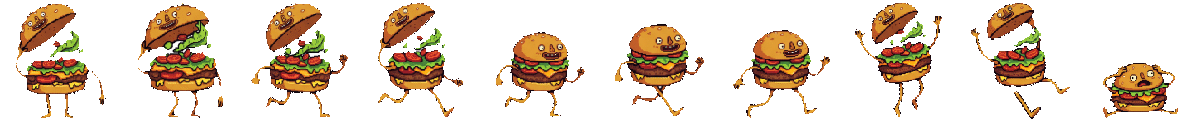
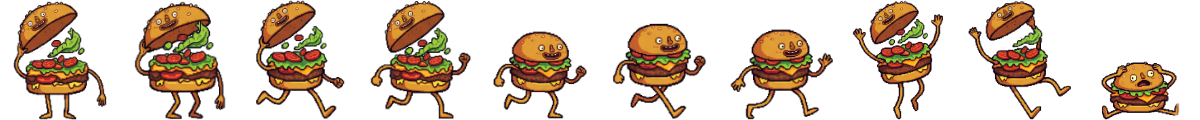
Update player animations and enhance developer tools

diff --git a/game.js b/game.js
@@ -1,6 +1,8 @@
 const SETTINGS = {
     floatingJoystick: true,
-    devMode: false
+    devMode: true, // Wymusza działanie narzędzi Dev Menu
+    showHitboxes: false,
+    showStats: false
 };
 
 // 1. SCENA MENU GŁÓWNEGO
@@ -77,16 +79,25 @@ class Story extends Phaser.Scene {
                 plat.body.checkCollision.right = false;
             }
         }
-
+        
         setupPlayerAndPhysics(this);
         this.scoreText = this.add.text(20, 20, 'Piętro: 0 / ' + this.targetFloor, { fontSize: '20px', fill: '#ffffff' }).setScrollFactor(0);
+        
+        // Włączenie rysowania hitboxów na żądanie (Tryb Dev)
+        if (SETTINGS.showHitboxes) {
+            this.physics.world.createDebugGraphic();
+        }
+
+        setupComboSystem(this);
+ 
     }
 
-    update() {
-        if (this.gameWon) return;
+    update(time, delta) {
+        if (this.gameWon || this.isDead) return;
         handlePlayerMovement(this);
         updateCameraAndScores(this, false); 
-        updateParallax(this);
+        handleCombo(this, delta); // NOWOŚĆ
+        if (typeof updateTelemetry === 'function') updateTelemetry(this);
     }
 }
 
@@ -117,17 +128,26 @@ class Endless extends Phaser.Scene {
 
         setupPlayerAndPhysics(this);
         this.scoreText = this.add.text(20, 20, 'Piętro: 0', { fontSize: '24px', fill: '#ffffff' }).setScrollFactor(0);
+
+        // Włączenie rysowania hitboxów na żądanie (Tryb Dev)
+        if (SETTINGS.showHitboxes) {
+            this.physics.world.createDebugGraphic();
+        }
+
+        setupComboSystem(this);
     }
 
-    update() {
+    update(time, delta) {
+        if (this.isDead) return;
         handlePlayerMovement(this);
         updateCameraAndScores(this, true); 
-
+        
         while (this.cameras.main.scrollY < this.nextPlatformY + 640) {
             this.generatePlatform();
         }
-
-        updateParallax(this);
+        
+        handleCombo(this, delta); // NOWOŚĆ
+        if (typeof updateTelemetry === 'function') updateTelemetry(this);
     }
 
     generatePlatform() {
@@ -183,11 +203,12 @@ function setupPlayerAndPhysics(scene) {
     if (scene.textures.exists('player')) {
         scene.player = scene.physics.add.sprite(180, 500, 'player');
         
-        // POWIĘKSZENIE POSTACI:
+        // Dopasowanie wizualne i naprawa hitboxa
         scene.player.setDisplaySize(80, 80); 
-        scene.player.setSize(120, 120); // Dopasowanie hitboxa do kwadratów ze sprite sheetu
+        scene.player.body.setSize(50, 70); 
+        scene.player.body.setOffset(35, 50);
         
-        // --- TWORZENIE ANIMACJI ---
+        // --- PEŁNA INICJALIZACJA ANIMACJI ---
         if (!scene.anims.exists('idle')) {
             scene.anims.create({
                 key: 'idle',
@@ -246,18 +267,66 @@ function setupPlayerAndPhysics(scene) {
     scene.mobileKeys = { joyX: 0, up: false };
     createMobileControls(scene);
 
+    // --- ROZWIJANE MENU DEWELOPERSKIE ---
     if (SETTINGS.devMode) {
-        let btnDevUp = scene.add.text(350, 10, '🚀 +10 PIĘTER', { 
-            fontSize: '16px', fill: '#ffffff', backgroundColor: '#c0392b', padding: 8, fontStyle: 'bold' 
-        }).setOrigin(1, 0).setScrollFactor(0).setInteractive();
+        // Kontener menu
+        let devContainer = scene.add.container(config.width - 150, 40).setScrollFactor(0).setDepth(100);
+        let menuBg = scene.add.rectangle(0, 0, 140, 110, 0x000000, 0.8).setOrigin(0, 0);
+        devContainer.add(menuBg);
         
+        let title = scene.add.text(5, 5, '🛠 DEV MENU', { fontSize: '14px', fill: '#f1c40f', fontStyle: 'bold' });
+        devContainer.add(title);
+
+        // Przycisk koła zębatego
+        let btnToggle = scene.add.text(config.width - 35, 10, '⚙', { fontSize: '24px' }).setScrollFactor(0).setInteractive().setDepth(101);
+        devContainer.setVisible(false);
+        
+        btnToggle.on('pointerdown', () => {
+            devContainer.setVisible(!devContainer.visible);
+        });
+
+        const getHitboxText = () => SETTINGS.showHitboxes ? '[X] Hitboxy' : '[ ] Hitboxy';
+        let btnHitboxes = scene.add.text(5, 30, getHitboxText(), { fontSize: '12px', fill: '#fff' }).setInteractive();
+        btnHitboxes.on('pointerdown', () => {
+            SETTINGS.showHitboxes = !SETTINGS.showHitboxes;
+            btnHitboxes.setText(getHitboxText());
+            
+            if (SETTINGS.showHitboxes) {
+                if (!scene.physics.world.debugGraphic) scene.physics.world.createDebugGraphic();
+                scene.physics.world.drawDebug = true;
+            } else {
+                scene.physics.world.drawDebug = false;
+                if (scene.physics.world.debugGraphic) scene.physics.world.debugGraphic.clear();
+            }
+        });
+        devContainer.add(btnHitboxes);
+
+        const getStatsText = () => SETTINGS.showStats ? '[X] Telemetria' : '[ ] Telemetria';
+        let btnStats = scene.add.text(5, 55, getStatsText(), { fontSize: '12px', fill: '#fff' }).setInteractive();
+        btnStats.on('pointerdown', () => {
+            SETTINGS.showStats = !SETTINGS.showStats;
+            btnStats.setText(getStatsText());
+        });
+        devContainer.add(btnStats);
+
+        let btnDevUp = scene.add.text(5, 80, '🚀 +10 PIĘTER', { fontSize: '12px', fill: '#fff', backgroundColor: '#c0392b', padding: 4 }).setInteractive();
         btnDevUp.on('pointerdown', () => {
             scene.player.y -= 1200; 
             scene.player.body.setVelocityY(-400); 
             scene.cameras.main.scrollY = scene.player.y - config.height / 2; 
         });
+        devContainer.add(btnDevUp);
+
+        scene.devStatsText = scene.add.text(10, 50, '', { fontSize: '12px', fill: '#00ff00', backgroundColor: '#000000aa', padding: 5 }).setScrollFactor(0).setDepth(99);
+        scene.devStatsText.setVisible(SETTINGS.showStats);
+        
+        if (SETTINGS.showHitboxes) {
+            scene.physics.world.createDebugGraphic();
+            scene.physics.world.drawDebug = true;
+        }
     }
 }
+
 
 function createMobileControls(scene) {
     scene.input.addPointer(2);
@@ -311,11 +380,12 @@ function createMobileControls(scene) {
 }
 
 function handlePlayerMovement(scene) {
-    // Jeśli gracz jest martwy i swobodnie spada (po przegranej), blokujemy sterowanie i zmianę animacji
     if (scene.isDead) return; 
 
     let moving = false;
+    let isJumpPressed = scene.cursors.up.isDown || scene.mobileKeys.up;
 
+    // 1. Ruch na boki
     if (scene.cursors.left.isDown || scene.mobileKeys.joyX < -0.2) {
         scene.player.body.setAccelerationX(-1500);
         if (scene.player.setFlipX) scene.player.setFlipX(true);
@@ -328,36 +398,48 @@ function handlePlayerMovement(scene) {
         scene.player.body.setAccelerationX(0);
     }
 
-    if ((scene.cursors.up.isDown || scene.mobileKeys.up) && scene.player.body.touching.down) {
-        scene.player.body.setVelocityY(-900);
+    // 2. INICJACJA SKOKU (zależna od pędu)
+    if (isJumpPressed && scene.player.body.touching.down) {
+        // Pobieramy absolutną prędkość poziomą (od 0 do max 600)
+        let speedX = Math.abs(scene.player.body.velocity.x);
+        
+        // Baza to -750 (zwykły skok z miejsca na 1-2 piętra). 
+        // Dodajemy bonus za rozpęd (np. przy max prędkości 600 * 0.6 = +360 siły).
+        // Max siła skoku wyniesie wtedy ok. -1110.
+        let jumpPower = -750 - (speedX * 0.6); 
+        
+        scene.player.body.setVelocityY(jumpPower);
     }
 
-    // --- ZAKTUALIZOWANA LOGIKA ANIMACJI ---
+    // 3. KONTROLA WYSOKOŚCI SKOKU (Variable Jump)
+    // Jeśli gracz leci w górę (Y < 0), ale puścił już przycisk/ekran, płynnie ucinamy pęd
+    if (!isJumpPressed && scene.player.body.velocity.y < 0) {
+        scene.player.body.setVelocityY(scene.player.body.velocity.y * 0.9); 
+    }
+
+    // --- LOGIKA ANIMACJI ---
     if (scene.textures.exists('player')) {
         let currentAnim = scene.player.anims.currentAnim?.key;
 
         if (!scene.player.body.touching.down) {
-            // W powietrzu
             if (currentAnim !== 'jump') scene.player.play('jump');
         } 
         else if (moving) {
-            // Ruch na ziemi
             if (currentAnim === 'idle') {
                 scene.player.play('prepare');
             } else if (currentAnim === 'prepare' && scene.player.anims.getProgress() === 1) {
                 scene.player.play('run');
             } else if (currentAnim !== 'prepare' && currentAnim !== 'run') {
-                scene.player.play('run'); // Gdy np. biegnie tuż po wylądowaniu ze skoku
+                scene.player.play('run'); 
             }
         } 
         else {
-            // Spoczynek na ziemi
-            // Zmiana: gdy wyląduje z 'jump' i nie ma ruchu, od razu przechodzi do 'idle' (pomijamy 'fall')
             if (currentAnim !== 'idle') {
                 scene.player.play('idle');
             }
         }
     }
+    updateTelemetry(scene);
 }
 
 function updateCameraAndScores(scene, isEndless) {
@@ -410,6 +492,125 @@ function updateCameraAndScores(scene, isEndless) {
     }
 }
 
+function updateTelemetry(scene) {
+    if (!SETTINGS.devMode || !scene.devStatsText) return;
+    
+    if (!SETTINGS.showStats) {
+        scene.devStatsText.setVisible(false);
+        return;
+    }
+    
+    scene.devStatsText.setVisible(true);
+
+    let currentSpeedX = Math.abs(scene.player.body.velocity.x).toFixed(0);
+
+    // Rejestrowanie wysokości bieżącego skoku
+    if (!scene.player.body.touching.down && scene.player.body.velocity.y < 0) {
+        if (scene.player.jumpStartY === undefined) {
+            scene.player.jumpStartY = scene.player.y;
+            scene.player.jumpStartXSpeed = currentSpeedX;
+        }
+        scene.player.currentJumpHeight = scene.player.jumpStartY - scene.player.y;
+    } else if (scene.player.body.touching.down) {
+        scene.player.jumpStartY = undefined; 
+    }
+
+    let lastHeight = (scene.player.currentJumpHeight || 0).toFixed(0);
+    let lastSpeed = (scene.player.jumpStartXSpeed || 0);
+
+    scene.devStatsText.setText(
+        `PREDKOSC X: ${currentSpeedX} / 600 px/s\n` +
+        `OSTATNI SKOK: ${lastHeight} px\n` +
+        `(Pęd przy wybiciu: ${lastSpeed})`
+    );
+}
+
+// --- SYSTEM COMBO ---
+
+function setupComboSystem(scene) {
+    scene.comboCount = 0;
+    scene.comboTimer = 0;
+    scene.maxComboTime = 2000; // 2 sekundy na kontynuację combo
+    scene.lastLandedFloor = 0;
+    scene.player.wasTouchingDown = true;
+    
+    // Tekst wyświetlający aktualne combo na środku ekranu
+    scene.comboText = scene.add.text(180, 150, '', {
+        fontSize: '36px', fill: '#f1c40f', fontStyle: 'bold', align: 'center', stroke: '#000', strokeThickness: 5
+    }).setOrigin(0.5).setScrollFactor(0).setAlpha(0).setDepth(100);
+}
+
+function handleCombo(scene, delta) {
+    // Obliczamy na którym piętrze fizycznie znajduje się gracz
+    let currentFloor = Math.max(0, Math.floor((630 - scene.player.y) / 120));
+
+    // Moment lądowania na platformie
+    if (scene.player.body.touching.down) {
+        if (!scene.player.wasTouchingDown) { // Właśnie wylądował
+            let floorsJumped = currentFloor - scene.lastLandedFloor;
+
+            // Inicjacja lub kontynuacja combo (skok o min. 2 piętra)
+            if (floorsJumped >= 2) {
+                scene.comboCount += floorsJumped;
+                scene.comboTimer = scene.maxComboTime;
+                
+                scene.comboText.setText('COMBO x' + scene.comboCount + '!');
+                scene.comboText.setAlpha(1);
+                scene.comboText.y = 150;
+                
+                // Efekt "pop" (powiększenia) przy uderzeniu
+                scene.tweens.add({
+                    targets: scene.comboText,
+                    scale: { from: 1.5, to: 1 },
+                    duration: 200,
+                    ease: 'Back.easeOut'
+                });
+            } 
+            // Jeśli gracz podskoczył tylko o 1 piętro lub spadł, a miał aktywne combo - kończymy je
+            else if ((floorsJumped <= 1) && scene.comboCount > 0) {
+                cashInCombo(scene);
+            }
+            
+            scene.lastLandedFloor = currentFloor;
+        }
+    }
+    scene.player.wasTouchingDown = scene.player.body.touching.down;
+
+    // Odliczanie czasu combo
+    if (scene.comboCount > 0) {
+        scene.comboTimer -= delta;
+        
+        // Cieniowanie tekstu pokazujące uciekający czas
+        scene.comboText.setAlpha(scene.comboTimer / scene.maxComboTime);
+        
+        if (scene.comboTimer <= 0) {
+            cashInCombo(scene);
+        }
+    }
+}
+
+function cashInCombo(scene) {
+    if (scene.comboCount > 0) {
+        // Punktacja rodem z Icy Tower (kwadrat ilości pięter)
+        let points = scene.comboCount * scene.comboCount; 
+        
+        scene.comboText.setText('+' + points + ' PKT!');
+        scene.comboText.setAlpha(1);
+        
+        // Animacja unoszącego się i znikającego napisu z punktami
+        scene.tweens.add({
+            targets: scene.comboText,
+            y: scene.comboText.y - 50,
+            alpha: 0,
+            duration: 1000,
+            ease: 'Power1'
+        });
+        
+        // Docelowo tutaj dodasz zmienną globalnego wyniku: scene.score += points
+        scene.comboCount = 0;
+    }
+}
+
 const config = {
     type: Phaser.AUTO,
     width: 360,
@@ -428,5 +629,8 @@ const config = {
     },
     scene: [Menu, Story, Endless] 
 };
+
+
+
 
 const game = new Phaser.Game(config);
